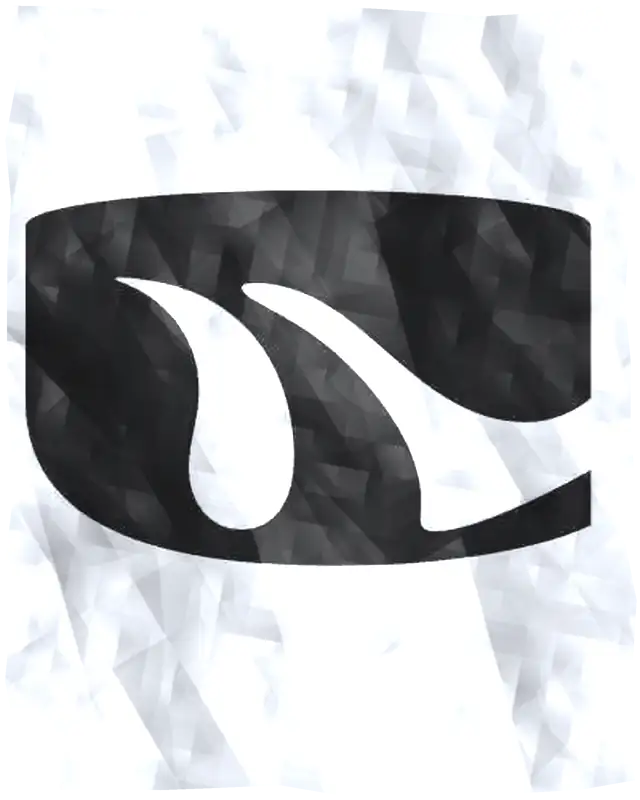
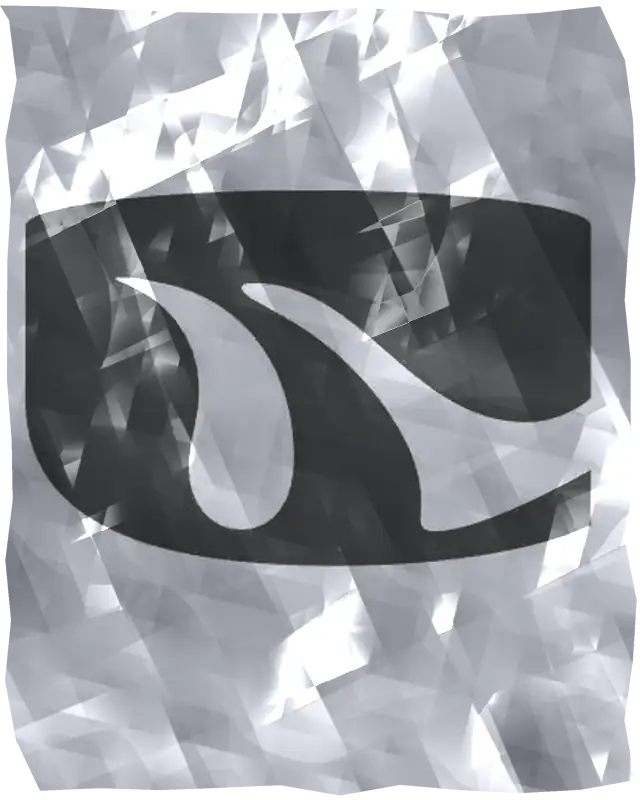
Test alu : vrai rendu argent (reflets de studio sur la feuille froissée, vernis brillant)

diff --git a/scripts/alu.py b/scripts/alu.py
@@ -1,10 +1,10 @@
 """Vignettes « aluminium froissé » pour les cartes de projets.
 
-La photo est imprimée en argent, en tons continus, sur une feuille
-d'aluminium froissée générée par le script : facettes planes, plis droits,
-reflets métalliques. Les plis traversent l'image (plus sombre dans les
-creux, brillante sur les arêtes) et la feuille a des bords légèrement
-irréguliers (alpha).
+La photo est imprimée sur une feuille d'argent froissée générée par le
+script : facettes planes, plis droits, et sur chacune le reflet d'un
+studio photo (sources lumineuses, murs clairs et sombres). Un vernis
+brillant laisse les reflets passer par-dessus l'image. La feuille a des
+bords légèrement irréguliers (alpha).
 
 Utilisation (depuis la racine du projet) :
     python3 scripts/alu.py public/img/projets/photo.webp public/img/projets/alu/photo.webp [graine]
@@ -18,7 +18,6 @@ import numpy as np
 from PIL import Image, ImageDraw, ImageOps
 
 WIDTH, HEIGHT = 640, 800  # format 4:5 des cartes
-SILVER = np.array([200, 204, 212], np.float32)  # argent légèrement froid
 
 
 def facet_layer(rng, cells, angle):
@@ -33,23 +32,29 @@ def facet_layer(rng, cells, angle):
     return np.asarray(im.crop((left, top, left + WIDTH, top + HEIGHT)), dtype=np.float32)
 
 
-def foil_shade(seed):
-    """Éclairage de la feuille froissée, de 0 (creux sombre) à 1 (reflet)."""
+def foil_reflection(seed):
+    """Reflet d'un studio sur une feuille d'argent froissée, de 0 (sombre)
+    à ~1,4 (éclats). Chaque facette reflète une autre partie du studio :
+    c'est ce contraste franc entre facettes voisines qui fait le métal."""
     rng = np.random.default_rng(seed)
     height = np.zeros((HEIGHT, WIDTH), np.float32)
-    for cells, amp in [(4, 1.0), (7, 0.6), (13, 0.3), (26, 0.12)]:
+    for cells, amp in [(3, 1.0), (6, 0.6), (11, 0.28), (22, 0.08)]:
         layer = facet_layer(rng, cells, rng.uniform(0, 180))
         ridged = 1.0 - np.abs(2 * layer - 1)
         height += amp * (0.88 * layer + 0.12 * ridged)
-    gy, gx = np.gradient(height * 14.0)
+    gy, gx = np.gradient(height * 21.0)
     nz = 1.0 / np.sqrt(gx * gx + gy * gy + 1)
     nx, ny = -gx * nz, -gy * nz
-    # Reflets d'un environnement de studio : bandes claires et sombres selon
-    # l'orientation de chaque facette, typique du métal.
-    env = 0.5 + 0.5 * np.sin(6.5 * nx + 4.0 * ny + 1.3) * np.cos(5.0 * ny - 2.5 * nx + 0.4)
-    light = np.clip(0.55 * nx - 0.45 * ny + 0.7 * nz, 0, 1)  # lumière en haut à gauche
-    shade = 0.6 * env ** 1.6 + 0.5 * light ** 4
-    return np.clip((shade - 0.12) * 1.55, 0, 1)
+    rx, ry = 2 * nz * nx, 2 * nz * ny  # direction réfléchie (vue de face)
+    # studio : plus clair en haut, bandes de murs clairs et sombres
+    env = 0.5 - 0.42 * ry + 0.12 * rx + 0.28 * np.sin(3.2 * rx - 1.1 * ry + 0.6)
+    for cx, cy, r2, k in [(-0.3, -0.5, 0.06, 0.55), (0.5, -0.2, 0.03, 0.45), (0.1, 0.45, 0.02, 0.3)]:
+        env += k * np.exp(-((rx - cx) ** 2 + (ry - cy) ** 2) / r2)  # sources lumineuses
+    for cx, cy, r2, k in [(0.55, 0.45, 0.05, 0.55), (-0.65, 0.2, 0.03, 0.45)]:
+        env -= k * np.exp(-((rx - cx) ** 2 + (ry - cy) ** 2) / r2)  # drapeaux noirs
+    env += 0.5 * np.exp(-((0.8 * rx + 0.6 * ry - 0.15) ** 2) / 0.003)  # réglette fine
+    env += (1 - nz) ** 2 * 0.3  # les facettes très inclinées brillent (Fresnel)
+    return np.clip(env, 0, 1.4)
 
 
 def ragged_mask(seed, inset=10, jitter=7, step=60, ss=3):
@@ -84,13 +89,15 @@ def photo_tone(src):
 
 
 def alu(src, dst, seed=1):
-    shade = foil_shade(seed)[..., None]
+    c = foil_reflection(seed)[..., None]
     tone = photo_tone(src)[..., None]
-    # Impression argent : la photo module la luminosité du métal, et les
-    # plis la traversent (creux plus sombres, éclat blanc sur les arêtes).
-    metal = SILVER * 1.25 * (0.12 + 0.88 * tone) * (0.5 + 0.65 * shade)
-    sheen = (shade ** 10) * 60
-    rgb = np.clip(metal + sheen, 0, 255)
+    highlight = np.array([238, 242, 250], np.float32)  # reflets froids
+    shadow = np.array([52, 55, 63], np.float32)  # creux gris profond
+    metal = shadow + (highlight - shadow) * np.clip(c, 0, 1)
+    # photo imprimée sur l'argent, puis un vernis brillant : les reflets
+    # passent aussi par-dessus l'encre sombre
+    gloss = np.clip(c - 0.72, 0, 1) ** 1.2 * 255 * 0.85
+    rgb = np.clip(metal * (0.3 + 0.7 * tone) + gloss, 0, 255)
     out = Image.fromarray(rgb.astype("uint8"), "RGB")
     out.putalpha(ragged_mask(seed))
     out.save(dst, quality=62, method=6, alpha_quality=60)
